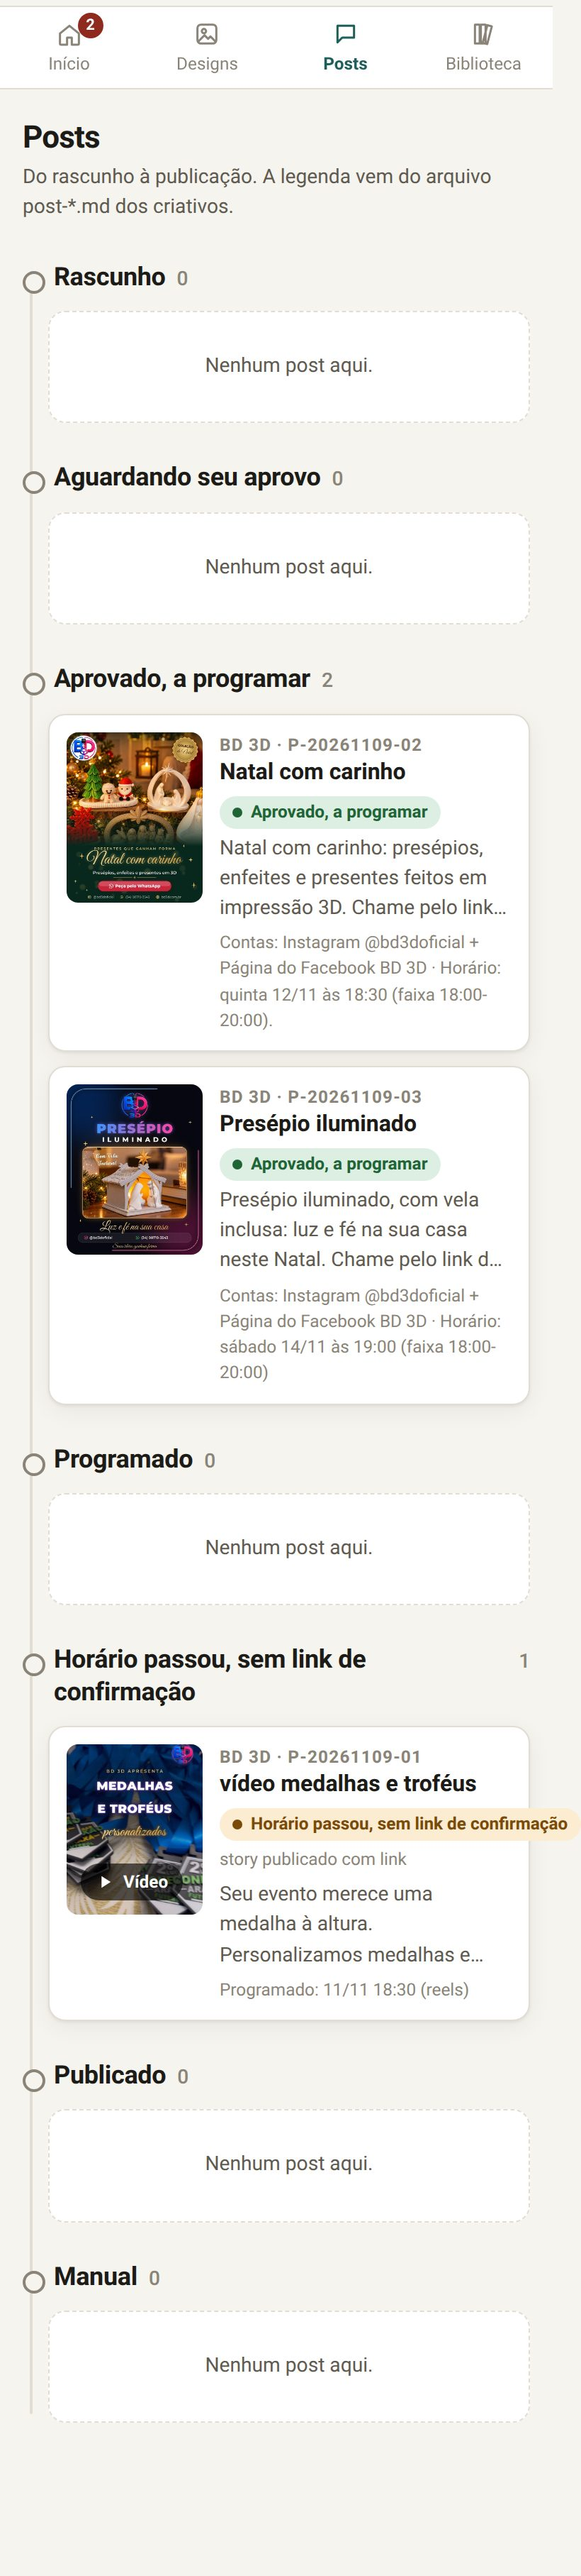
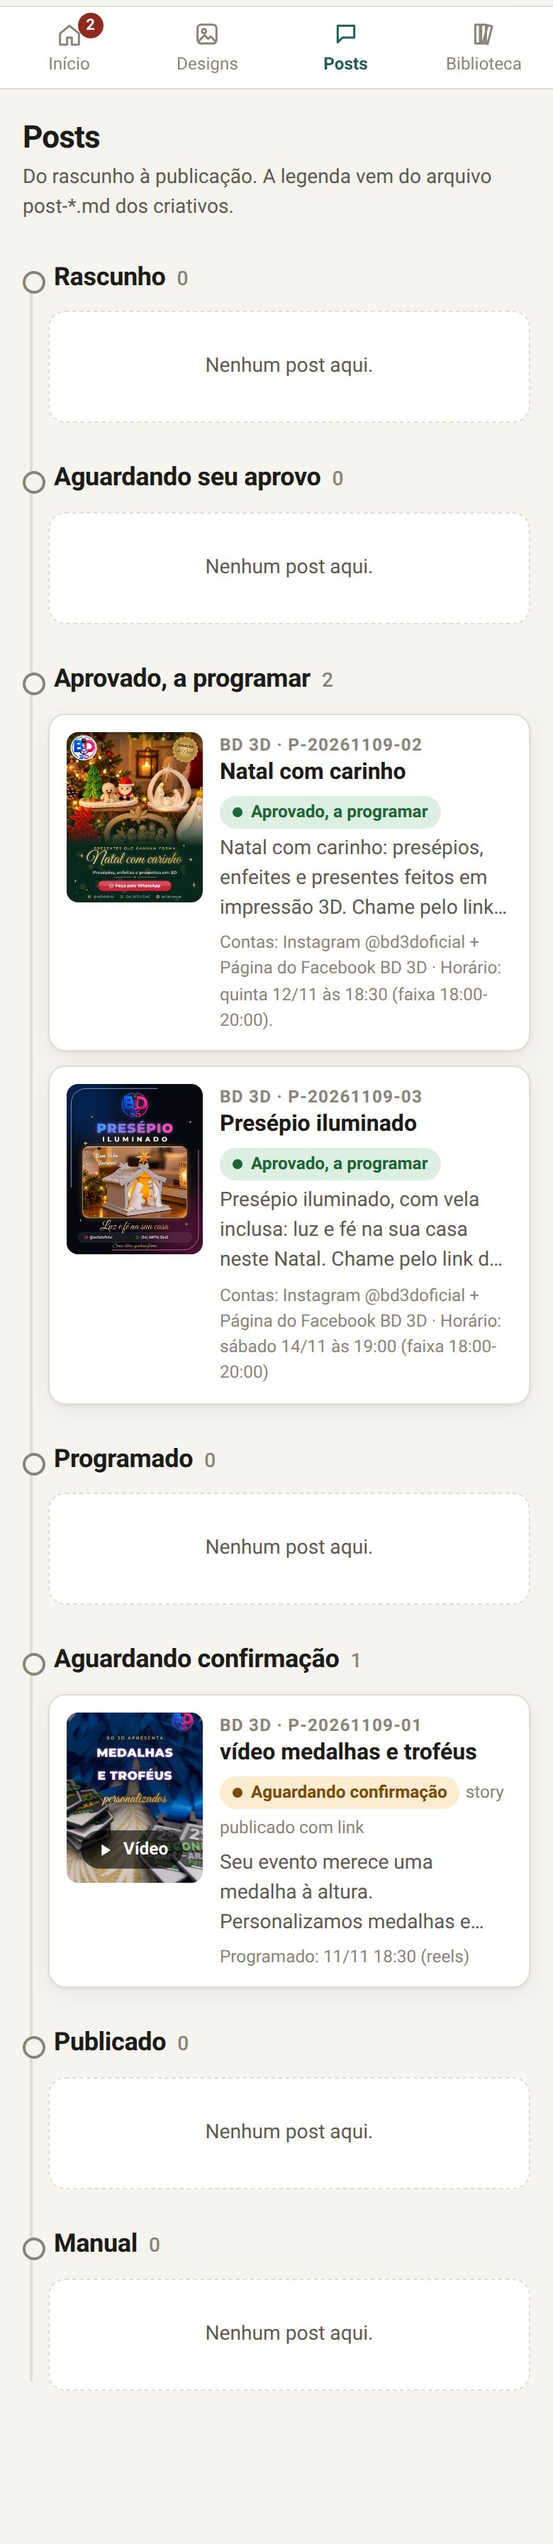
Selo curto para aguardando confirmação e selos sem estourar o cartão

diff --git a/src/App.html b/src/App.html
@@ -8,7 +8,7 @@
     rascunho: 'Rascunho', aguardando_aprovo: 'Aguardando aprovo', programado: 'Programado', aguardando_confirmacao: 'Aguardando confirmação', publicado: 'Publicado', manual: 'Manual'
   };
   var ORDEM_POSTS = ['rascunho', 'aguardando_aprovo', 'aprovado', 'programado', 'aguardando_confirmacao', 'publicado', 'manual'];
-  var ROTULO_POSTS = { rascunho: 'Rascunho', aguardando_aprovo: 'Aguardando seu aprovo', aprovado: 'Aprovado, a programar', programado: 'Programado', aguardando_confirmacao: 'Horário passou, sem link de confirmação', publicado: 'Publicado', manual: 'Manual' };
+  var ROTULO_POSTS = { rascunho: 'Rascunho', aguardando_aprovo: 'Aguardando seu aprovo', aprovado: 'Aprovado, a programar', programado: 'Programado', aguardando_confirmacao: 'Aguardando confirmação', publicado: 'Publicado', manual: 'Manual' };
 
   /** Texto do estado de uma decisão já enviada. */
   function textoEnvio(p) {

diff --git a/src/Styles.html b/src/Styles.html
@@ -111,7 +111,7 @@ h2 .qtd { font-size: var(--text-sm); color: var(--texto-3); font-weight: 500; }
 .contador-card.zero .num { color: var(--texto-3); }
 
 /* Selos */
-.selo { display: inline-flex; align-items: center; gap: 6px; padding: 3px 9px; border-radius: 999px; font-size: var(--text-xs); font-weight: 650; line-height: 1.4; white-space: nowrap; }
+.selo { display: inline-flex; align-items: center; gap: 6px; padding: 3px 9px; border-radius: 999px; font-size: var(--text-xs); font-weight: 650; line-height: 1.4; white-space: nowrap; max-width: 100%; overflow: hidden; text-overflow: ellipsis; }
 .selo::before { content: ""; width: 7px; height: 7px; border-radius: 50%; background: currentColor; }
 .s-novo { background: var(--e-novo-bg); color: var(--e-novo); }
 .s-em_criacao { background: var(--e-criacao-bg); color: var(--e-criacao); }
